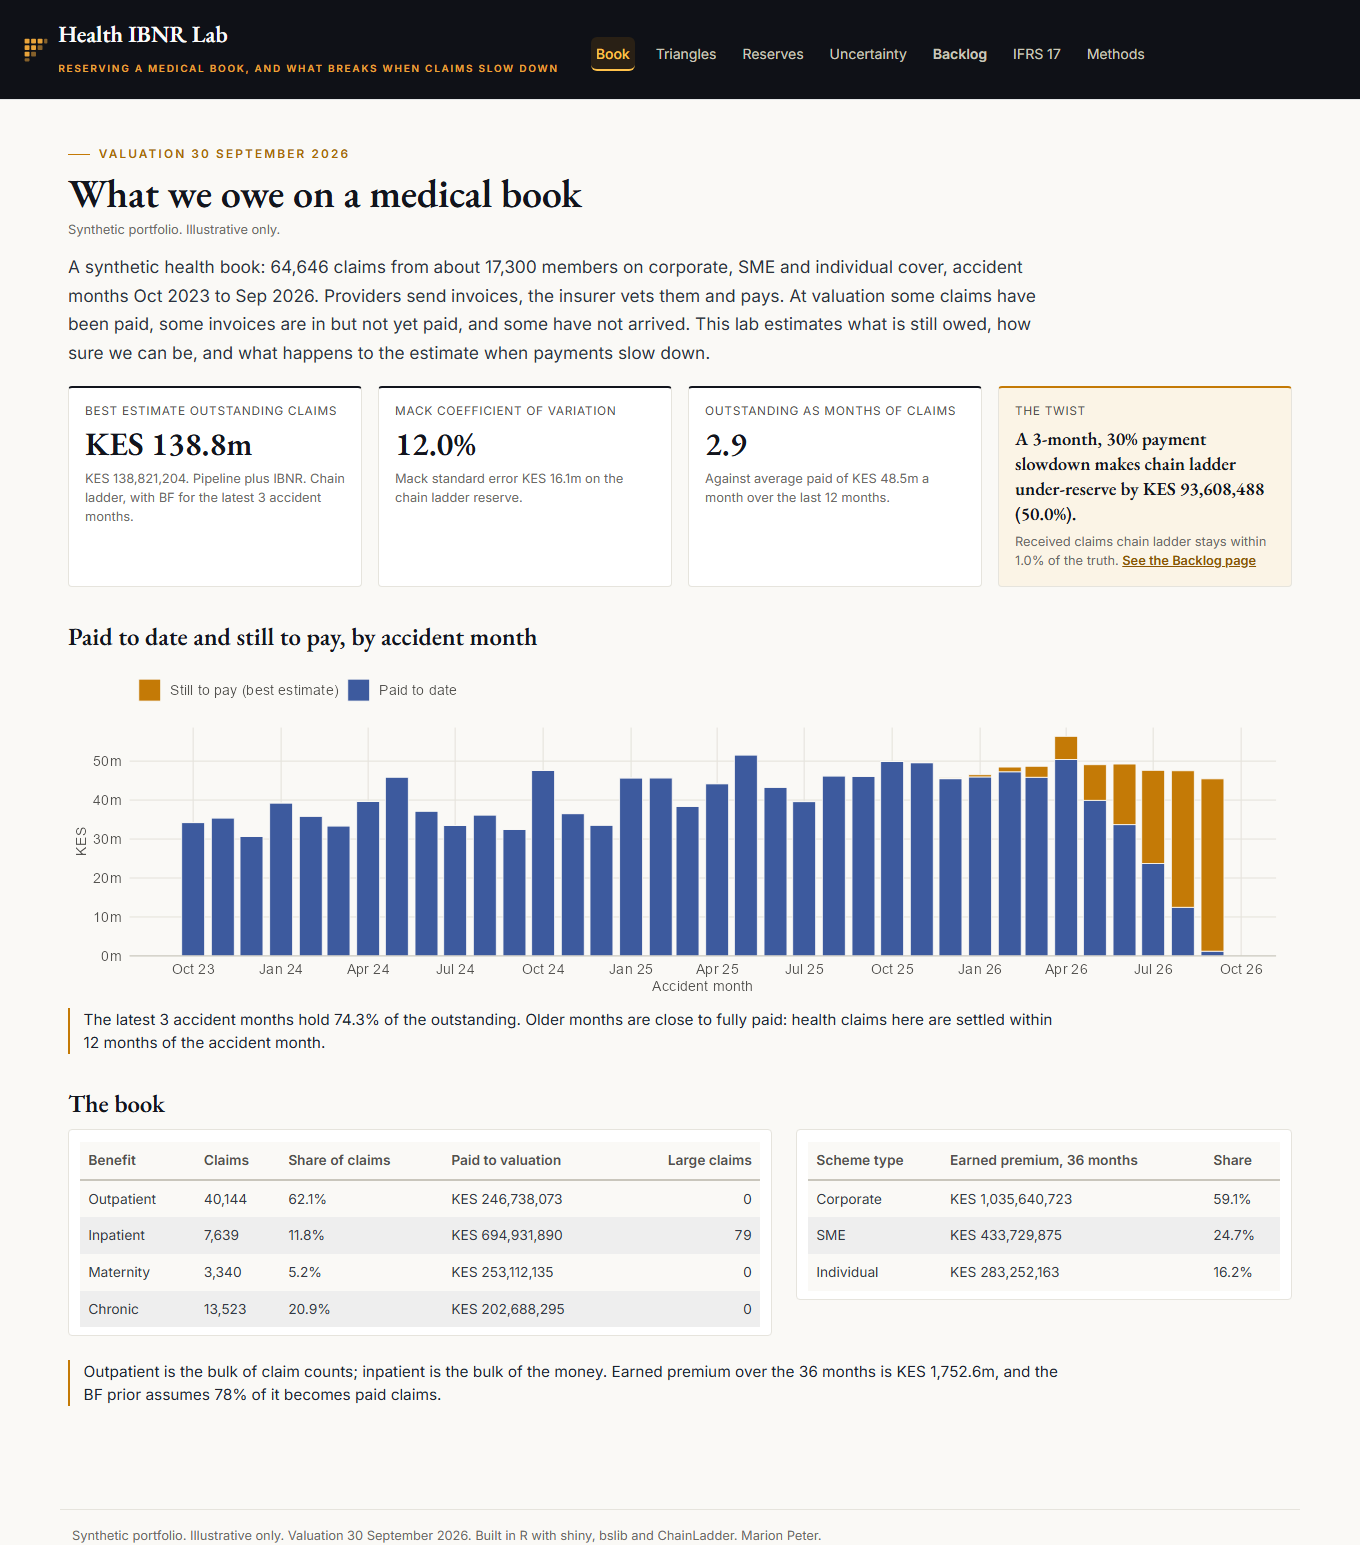
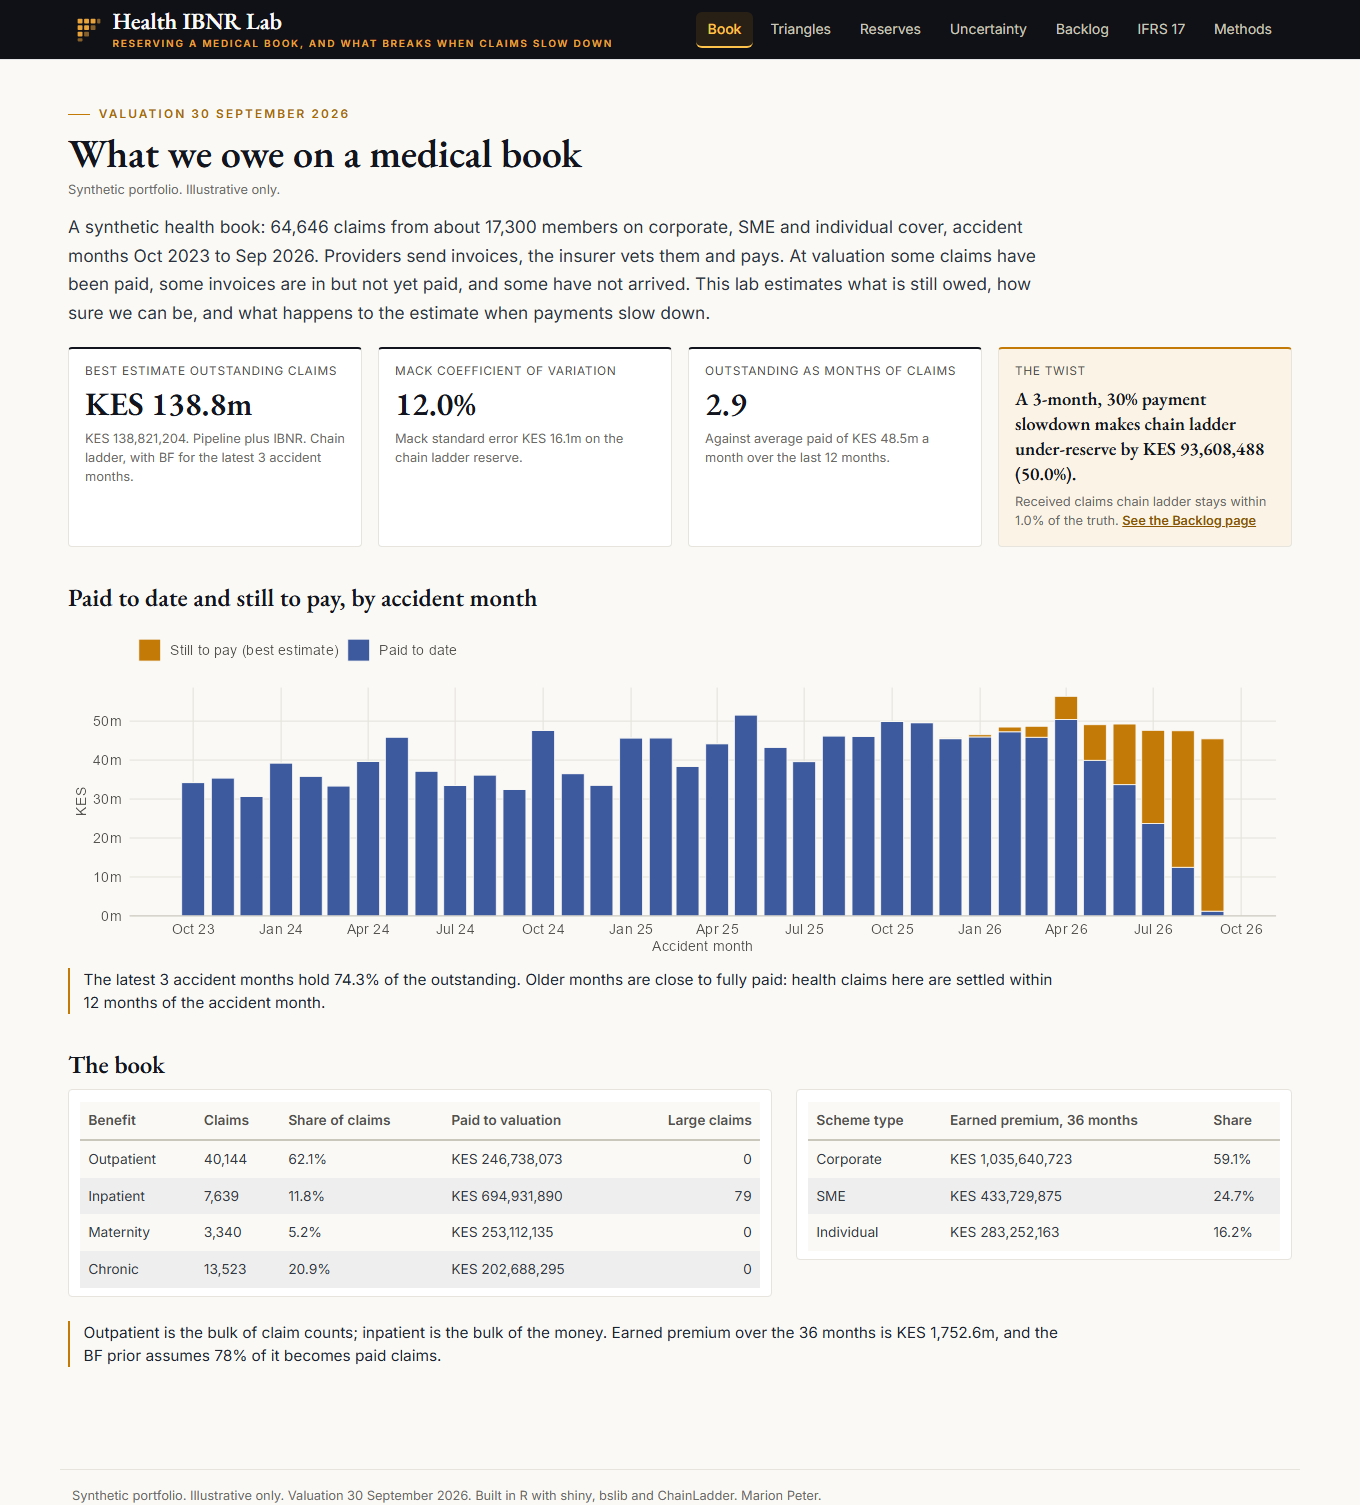
Fix the navbar at every width and tidy the README pictures

diff --git a/www/styles.css b/www/styles.css
@@ -2,15 +2,31 @@
 @import url('https://fonts.googleapis.com/css2?family=EB+Garamond:wght@500;600;700&family=Inter:wght@400;500;600&display=swap');
 
 body { background: #faf9f6; color: #1d2430; }
-.navbar { background: #0F1117 !important; border-bottom: 1px solid #2a2d38; }
-.navbar-brand { display: flex; align-items: center; gap: 0.6rem; }
-.navbar-brand img { height: 26px; width: 26px; }
-.brand-name { font-family: 'EB Garamond', Garamond, Georgia, serif; font-size: 1.45rem; font-weight: 600; color: #FAFAFA; line-height: 1; }
-.brand-tag { font-size: 0.62rem; font-weight: 700; letter-spacing: 0.18em; text-transform: uppercase; color: #E8A33A; line-height: 1.4; }
-.navbar .nav-link { color: #c9c6bc !important; border-radius: 6px; padding: 0.35rem 0.7rem !important; }
+/* Navbar: contents line up with the page, links sit on the right, one row at every desktop width. */
+.navbar { background: #0F1117 !important; border-bottom: 1px solid #2a2d38; padding-top: 0.55rem; padding-bottom: 0.55rem; }
+.navbar > .container-fluid { max-width: 1240px; margin: 0 auto; padding-left: 1rem; padding-right: 1rem; }
+.navbar .navbar-header { display: flex; align-items: center; justify-content: space-between; }
+.navbar .navbar-brand { display: flex; align-items: center; margin-right: 1.5rem; padding-top: 0; padding-bottom: 0; }
+.brand { display: flex; align-items: center; gap: 0.65rem; }
+.brand img { height: 26px; width: 26px; flex: none; }
+.brand-text { display: flex; flex-direction: column; }
+.brand-name { font-family: 'EB Garamond', Garamond, Georgia, serif; font-size: 1.45rem; font-weight: 600; color: #FAFAFA; line-height: 1.1; }
+.brand-tag { font-size: 0.62rem; font-weight: 700; letter-spacing: 0.18em; text-transform: uppercase; color: #E8A33A; line-height: 1.4; margin-top: 0.15rem; }
+.navbar .navbar-nav .nav-link { color: #c9c6bc !important; border-radius: 6px; padding: 0.4rem 0.75rem !important; margin-bottom: 0 !important; white-space: nowrap; }
 .navbar .nav-link:hover { color: #ffffff !important; background: rgba(255,255,255,0.06); }
 .navbar .nav-link.active { color: #FFC24B !important; background: rgba(232,150,12,0.12); }
-.navbar .nav-link[data-value="Backlog"] { font-weight: 600; }
+@media (min-width: 992px) {
+  .navbar .navbar-collapse { justify-content: flex-end; }
+  .navbar .navbar-nav { justify-content: flex-end; gap: 0.3rem; }
+}
+@media (max-width: 1279.98px) { .brand-tag { display: none; } }
+@media (max-width: 991.98px) {
+  .navbar .navbar-header { width: 100%; }
+  .navbar .navbar-toggle { order: 2; margin-left: auto; }
+  .navbar .navbar-collapse { margin-top: 0.6rem; padding: 0.4rem 0 0.5rem 0; border-top: 1px solid #2a2d38; }
+  .navbar .navbar-nav { gap: 0.1rem; }
+  .navbar .navbar-nav .nav-link { padding: 0.65rem 0.8rem !important; font-size: 1rem; }
+}
 
 .container-fluid.main { max-width: 1240px; }
 .tab-content { padding: 1.6rem 0.5rem 2.5rem 0.5rem; max-width: 1240px; margin: 0 auto; }
@@ -55,7 +71,6 @@ table.dataTable thead th { color: #52514e; font-weight: 600; border-bottom: 1px 
   .headline { font-size: 1.3rem; }
   .kpi .value { font-size: 1.7rem; }
   .tab-content { padding: 1rem 0 2rem 0; }
-  .brand-tag { display: none; }
 }
 
 /* Tables: headers and text wrap, numbers stay on one line. A table that is still too wide scrolls inside its own card. */

diff --git a/scripts/readme_hero.html b/scripts/readme_hero.html
@@ -1,0 +1,31 @@
+<!doctype html>
+<!-- Layout for assets/readme/hero.png: the desktop app in a browser frame with the phone view beside it.
+     scripts/readme_images.R opens this file in headless Chrome and saves a screenshot of it. -->
+<html>
+<head>
+<meta charset="utf-8">
+<style>
+  html, body { margin: 0; padding: 0; }
+  body { width: 1600px; height: 860px; position: relative; overflow: hidden;
+         background: linear-gradient(135deg, #f6f3ec 0%, #e8e2d4 100%); font-family: Inter, "Segoe UI", system-ui, sans-serif; }
+  .browser { position: absolute; left: 56px; top: 52px; width: 1240px; border-radius: 12px; overflow: hidden; background: #ffffff;
+             box-shadow: 0 28px 60px rgba(18, 21, 29, 0.22), 0 6px 16px rgba(18, 21, 29, 0.10); }
+  .bar { height: 36px; background: #1b1e27; display: flex; align-items: center; gap: 8px; padding: 0 16px; }
+  .dot { width: 11px; height: 11px; border-radius: 50%; background: #3b3f4b; }
+  .url { margin-left: 18px; width: 420px; height: 22px; border-radius: 6px; background: #2a2e39; color: #a3a5ad;
+         font-size: 12.5px; line-height: 22px; padding-left: 12px; }
+  .browser img { display: block; width: 100%; }
+  .phone { position: absolute; left: 1218px; top: 128px; width: 300px; border-radius: 40px; background: #0f1117; padding: 11px;
+           box-shadow: 0 30px 60px rgba(18, 21, 29, 0.30), 0 8px 18px rgba(18, 21, 29, 0.14); }
+  .phone img { display: block; width: 100%; border-radius: 30px; }
+</style>
+</head>
+<body>
+  <div class="browser">
+    <div class="bar"><span class="dot"></span><span class="dot"></span><span class="dot"></span>
+      <span class="url">maidenpeter.shinyapps.io/health-ibnr-lab</span></div>
+    <img src="../assets/readme/hero_backlog.png" alt="">
+  </div>
+  <div class="phone"><img src="../assets/readme/phone_book.png" alt=""></div>
+</body>
+</html>

diff --git a/www/app.js b/www/app.js
@@ -1,6 +1,7 @@
-// Shows a "scroll sideways" hint on any table that is wider than its card, and only then.
+// Small behaviours for the lab's pages.
 document.addEventListener("DOMContentLoaded", function () {
-  function mark() {
+  // Tables: show a "scroll sideways" hint on any table that is wider than its card, and only then.
+  function markScrollable() {
     document.querySelectorAll('.dataTables_wrapper').forEach(function (w) {
       var body = w.querySelector('.dataTables_scrollBody');
       if (!body) return;
@@ -14,7 +15,14 @@ document.addEventListener("DOMContentLoaded", function () {
     });
   }
   var timer;
-  function soon() { clearTimeout(timer); timer = setTimeout(mark, 250); }
+  function soon() { clearTimeout(timer); timer = setTimeout(markScrollable, 250); }
   $(document).on('draw.dt init.dt shown.bs.tab shiny:value', soon);
   $(window).on('resize', soon);
+
+  // Navbar: on a phone or tablet, close the menu once a page is chosen and scroll to the top of that page.
+  $(document).on('click', '.navbar-collapse.show .nav-link', function () {
+    var menu = document.querySelector('.navbar-collapse.show');
+    if (menu && window.bootstrap) window.bootstrap.Collapse.getOrCreateInstance(menu, { toggle: false }).hide();
+    window.scrollTo(0, 0);
+  });
 });

diff --git a/scripts/readme_template.md b/scripts/readme_template.md
@@ -24,12 +24,9 @@
   &nbsp;&middot;&nbsp; <a href="#run-it-locally">Run it locally</a>
 </p>
 
-<table>
-  <tr>
-    <td width="79%"><a href="https://maidenpeter.shinyapps.io/health-ibnr-lab/"><img src="assets/readme/hero_backlog.png" width="100%" alt="The Backlog page of the live app"></a></td>
-    <td width="21%"><img src="assets/readme/phone_book.png" width="100%" alt="The Book page on a phone"></td>
-  </tr>
-</table>
+<p align="center">
+  <a href="https://maidenpeter.shinyapps.io/health-ibnr-lab/"><img src="assets/readme/hero.png" width="100%" alt="The Backlog page of the live app on a laptop, and the Book page on a phone"></a>
+</p>
 
 <p align="center"><sub>The app runs on the shinyapps.io free plan (up to 5 apps and 25 active hours a month), so it sleeps when nobody is using it and takes a few seconds to wake.</sub></p>
 
@@ -37,9 +34,9 @@
 
 <table>
   <tr>
-    <td align="center" width="33%"><h3>{{be_m}}</h3>best estimate of outstanding claims<br><sub>pipeline plus IBNR, valued {{valuation_date}}</sub></td>
-    <td align="center" width="33%"><h3>{{mack_cv}}</h3>Mack coefficient of variation<br><sub>99.5th percentile of the bootstrap: {{p995_m}}</sub></td>
-    <td align="center" width="33%"><h3>{{err_cl_all}}</h3>paid chain ladder error<br><sub>when {{bl_x}} of payments slip for {{bl_n}} months</sub></td>
+    <td align="center" valign="top" width="33%"><h3>{{be_m}}</h3>best estimate outstanding<br><sub>pipeline plus IBNR at {{valuation_date}}</sub></td>
+    <td align="center" valign="top" width="33%"><h3>{{mack_cv}}</h3>Mack coefficient of variation<br><sub>bootstrap 99.5th percentile {{p995_m}}</sub></td>
+    <td align="center" valign="top" width="33%"><h3>{{err_cl_all}}</h3>paid chain ladder error<br><sub>{{bl_n}} months, {{bl_x}} of payments held back</sub></td>
   </tr>
 </table>
 
@@ -95,16 +92,25 @@ For the default slowdown ({{bl_n}} months, {{bl_x}} of due payments held back, {
 
 ## Tour of the app
 
-| | |
-|---|---|
-| ![Book](assets/screenshots/1-book.png) | ![Backlog](assets/screenshots/5-backlog.png) |
-| **Book.** The portfolio, the valuation date and the headline cards. | **Backlog.** The slowdown sliders, four methods against the truth, the early warnings and the back-test. |
-| ![Triangles](assets/screenshots/2-triangles.png) | ![Reserves](assets/screenshots/3-reserves.png) |
-| **Triangles.** Paid and received triangles, development factors and a link ratio heatmap. | **Reserves.** Chain ladder and BF side by side, with a live ELR slider. |
-| ![Uncertainty](assets/screenshots/4-uncertainty.png) | ![IFRS 17](assets/screenshots/6-ifrs17.png) |
-| **Uncertainty.** The ODP bootstrap distribution of the outstanding claims. | **IFRS 17.** From best estimate to LIC, with a live confidence level slider. |
-| ![Methods](assets/screenshots/7-methods.png) | |
-| **Methods.** Every assumption, every method choice, the limitations and the test results. | |
+Seven pages. Click any picture to see the whole page.
+
+<table>
+  <tr>
+    <td width="50%" valign="top"><a href="assets/screenshots/1-book.png"><img src="assets/readme/pages/1-book.png" width="100%" alt="The Book page"></a><br><b>Book.</b> The portfolio, the valuation date and the headline cards.</td>
+    <td width="50%" valign="top"><a href="assets/screenshots/5-backlog.png"><img src="assets/readme/pages/5-backlog.png" width="100%" alt="The Backlog page"></a><br><b>Backlog.</b> The slowdown sliders, four methods against the truth, the early warnings and the back-test.</td>
+  </tr>
+  <tr>
+    <td width="50%" valign="top"><a href="assets/screenshots/2-triangles.png"><img src="assets/readme/pages/2-triangles.png" width="100%" alt="The Triangles page"></a><br><b>Triangles.</b> Paid and received triangles, development factors and a link ratio heatmap.</td>
+    <td width="50%" valign="top"><a href="assets/screenshots/3-reserves.png"><img src="assets/readme/pages/3-reserves.png" width="100%" alt="The Reserves page"></a><br><b>Reserves.</b> Chain ladder and BF side by side, with a live ELR slider.</td>
+  </tr>
+  <tr>
+    <td width="50%" valign="top"><a href="assets/screenshots/4-uncertainty.png"><img src="assets/readme/pages/4-uncertainty.png" width="100%" alt="The Uncertainty page"></a><br><b>Uncertainty.</b> Mack standard errors and the ODP bootstrap distribution of the outstanding claims.</td>
+    <td width="50%" valign="top"><a href="assets/screenshots/6-ifrs17.png"><img src="assets/readme/pages/6-ifrs17.png" width="100%" alt="The IFRS 17 page"></a><br><b>IFRS 17.</b> From best estimate to LIC, with a live confidence level slider.</td>
+  </tr>
+  <tr>
+    <td colspan="2" align="center"><a href="assets/screenshots/7-methods.png"><img src="assets/readme/pages/7-methods.png" width="50%" alt="The Methods page"></a><br><b>Methods.</b> Every assumption, every method choice, the limitations and the test results.</td>
+  </tr>
+</table>
 
 ## Why health IBNR matters
 
@@ -166,6 +172,7 @@ R/                        generator, triangles, methods, backlog, IFRS 17, forma
 config.yml                every assumption, each with a one line comment
 scripts/build_results.R   generates the data, runs every method and the tests
 scripts/render_readme.R   fills in this README and draws its figure
+scripts/readme_images.R   takes the README's pictures of the running app
 data/                     claims, results, headline numbers and test results
 tests/testthat/           reconciliation, method, backlog, headline and hygiene tests
 ```

diff --git a/README.md b/README.md
@@ -24,12 +24,9 @@
   &nbsp;&middot;&nbsp; <a href="#run-it-locally">Run it locally</a>
 </p>
 
-<table>
-  <tr>
-    <td width="79%"><a href="https://maidenpeter.shinyapps.io/health-ibnr-lab/"><img src="assets/readme/hero_backlog.png" width="100%" alt="The Backlog page of the live app"></a></td>
-    <td width="21%"><img src="assets/readme/phone_book.png" width="100%" alt="The Book page on a phone"></td>
-  </tr>
-</table>
+<p align="center">
+  <a href="https://maidenpeter.shinyapps.io/health-ibnr-lab/"><img src="assets/readme/hero.png" width="100%" alt="The Backlog page of the live app on a laptop, and the Book page on a phone"></a>
+</p>
 
 <p align="center"><sub>The app runs on the shinyapps.io free plan (up to 5 apps and 25 active hours a month), so it sleeps when nobody is using it and takes a few seconds to wake.</sub></p>
 
@@ -37,9 +34,9 @@
 
 <table>
   <tr>
-    <td align="center" width="33%"><h3>KES 138.8m</h3>best estimate of outstanding claims<br><sub>pipeline plus IBNR, valued 30 September 2026</sub></td>
-    <td align="center" width="33%"><h3>12.0%</h3>Mack coefficient of variation<br><sub>99.5th percentile of the bootstrap: KES 219.1m</sub></td>
-    <td align="center" width="33%"><h3>-50.0%</h3>paid chain ladder error<br><sub>when 30% of payments slip for 3 months</sub></td>
+    <td align="center" valign="top" width="33%"><h3>KES 138.8m</h3>best estimate outstanding<br><sub>pipeline plus IBNR at 30 September 2026</sub></td>
+    <td align="center" valign="top" width="33%"><h3>12.0%</h3>Mack coefficient of variation<br><sub>bootstrap 99.5th percentile KES 219.1m</sub></td>
+    <td align="center" valign="top" width="33%"><h3>-50.0%</h3>paid chain ladder error<br><sub>3 months, 30% of payments held back</sub></td>
   </tr>
 </table>
 
@@ -95,16 +92,25 @@ For the default slowdown (3 months, 30% of due payments held back, KES 45,065,58
 
 ## Tour of the app
 
-| | |
-|---|---|
-| ![Book](assets/screenshots/1-book.png) | ![Backlog](assets/screenshots/5-backlog.png) |
-| **Book.** The portfolio, the valuation date and the headline cards. | **Backlog.** The slowdown sliders, four methods against the truth, the early warnings and the back-test. |
-| ![Triangles](assets/screenshots/2-triangles.png) | ![Reserves](assets/screenshots/3-reserves.png) |
-| **Triangles.** Paid and received triangles, development factors and a link ratio heatmap. | **Reserves.** Chain ladder and BF side by side, with a live ELR slider. |
-| ![Uncertainty](assets/screenshots/4-uncertainty.png) | ![IFRS 17](assets/screenshots/6-ifrs17.png) |
-| **Uncertainty.** The ODP bootstrap distribution of the outstanding claims. | **IFRS 17.** From best estimate to LIC, with a live confidence level slider. |
-| ![Methods](assets/screenshots/7-methods.png) | |
-| **Methods.** Every assumption, every method choice, the limitations and the test results. | |
+Seven pages. Click any picture to see the whole page.
+
+<table>
+  <tr>
+    <td width="50%" valign="top"><a href="assets/screenshots/1-book.png"><img src="assets/readme/pages/1-book.png" width="100%" alt="The Book page"></a><br><b>Book.</b> The portfolio, the valuation date and the headline cards.</td>
+    <td width="50%" valign="top"><a href="assets/screenshots/5-backlog.png"><img src="assets/readme/pages/5-backlog.png" width="100%" alt="The Backlog page"></a><br><b>Backlog.</b> The slowdown sliders, four methods against the truth, the early warnings and the back-test.</td>
+  </tr>
+  <tr>
+    <td width="50%" valign="top"><a href="assets/screenshots/2-triangles.png"><img src="assets/readme/pages/2-triangles.png" width="100%" alt="The Triangles page"></a><br><b>Triangles.</b> Paid and received triangles, development factors and a link ratio heatmap.</td>
+    <td width="50%" valign="top"><a href="assets/screenshots/3-reserves.png"><img src="assets/readme/pages/3-reserves.png" width="100%" alt="The Reserves page"></a><br><b>Reserves.</b> Chain ladder and BF side by side, with a live ELR slider.</td>
+  </tr>
+  <tr>
+    <td width="50%" valign="top"><a href="assets/screenshots/4-uncertainty.png"><img src="assets/readme/pages/4-uncertainty.png" width="100%" alt="The Uncertainty page"></a><br><b>Uncertainty.</b> Mack standard errors and the ODP bootstrap distribution of the outstanding claims.</td>
+    <td width="50%" valign="top"><a href="assets/screenshots/6-ifrs17.png"><img src="assets/readme/pages/6-ifrs17.png" width="100%" alt="The IFRS 17 page"></a><br><b>IFRS 17.</b> From best estimate to LIC, with a live confidence level slider.</td>
+  </tr>
+  <tr>
+    <td colspan="2" align="center"><a href="assets/screenshots/7-methods.png"><img src="assets/readme/pages/7-methods.png" width="50%" alt="The Methods page"></a><br><b>Methods.</b> Every assumption, every method choice, the limitations and the test results.</td>
+  </tr>
+</table>
 
 ## Why health IBNR matters
 
@@ -166,6 +172,7 @@ R/                        generator, triangles, methods, backlog, IFRS 17, forma
 config.yml                every assumption, each with a one line comment
 scripts/build_results.R   generates the data, runs every method and the tests
 scripts/render_readme.R   fills in this README and draws its figure
+scripts/readme_images.R   takes the README's pictures of the running app
 data/                     claims, results, headline numbers and test results
 tests/testthat/           reconciliation, method, backlog, headline and hygiene tests
 ```
